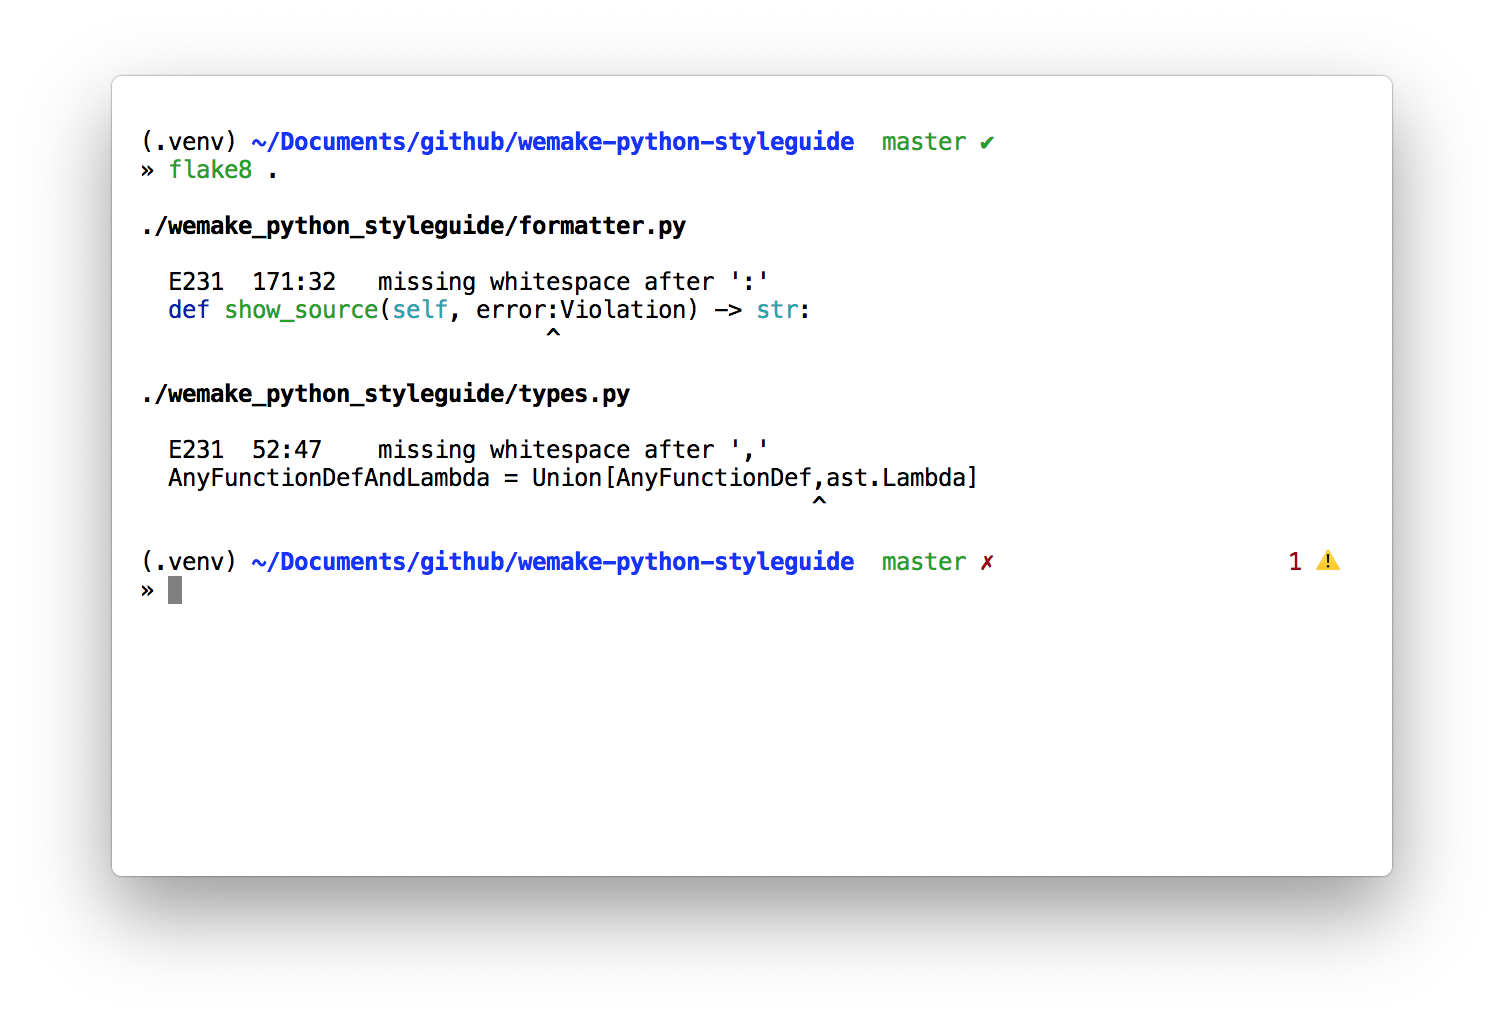
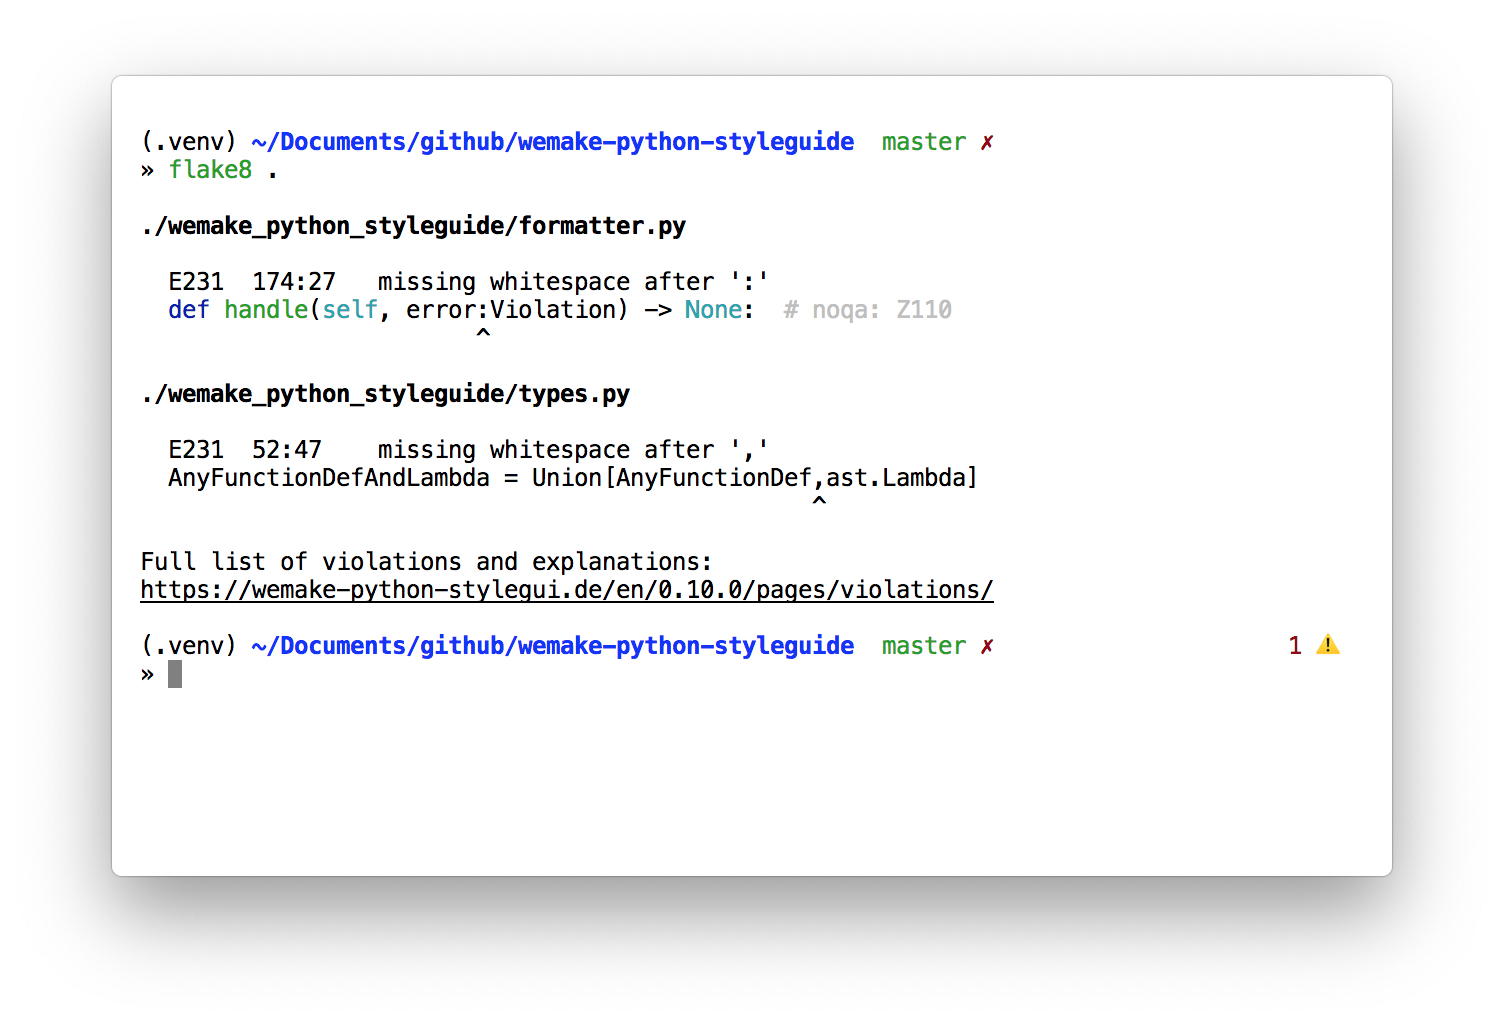
Improves screenshot

diff --git a/tests/test_formatter/snapshots/snap_test_formatter_output.py b/tests/test_formatter/snapshots/snap_test_formatter_output.py
@@ -20,7 +20,8 @@ snapshots['test_formatter[cli_options0-regular] formatter_regular'] = '''
   Z441  2:12     Found protected attribute usage: _protected
   Z303  2:31     Found underscored number: 10_00
 
-Full list of violations and explanations: https://wemake-python-stylegui.de/en/0.10.0/pages/violations/
+Full list of violations and explanations:
+https://wemake-python-stylegui.de/en/0.10.0/pages/violations/
 '''
 
 snapshots['test_formatter[cli_options4-statistic_with_source] formatter_statistic_with_source'] = '''
@@ -85,7 +86,8 @@ snapshots['test_formatter[cli_options4-statistic_with_source] formatter_statisti
 
 \x1b[4m\x1b[1mAll errors: 8\x1b[0m\x1b[0m
 
-Full list of violations and explanations: https://wemake-python-stylegui.de/en/0.10.0/pages/violations/
+Full list of violations and explanations:
+https://wemake-python-stylegui.de/en/0.10.0/pages/violations/
 '''
 
 snapshots['test_formatter[cli_options3-with_source_statistic] formatter_with_source_statistic'] = '''
@@ -150,7 +152,8 @@ snapshots['test_formatter[cli_options3-with_source_statistic] formatter_with_sou
 
 \x1b[4m\x1b[1mAll errors: 8\x1b[0m\x1b[0m
 
-Full list of violations and explanations: https://wemake-python-stylegui.de/en/0.10.0/pages/violations/
+Full list of violations and explanations:
+https://wemake-python-stylegui.de/en/0.10.0/pages/violations/
 '''
 
 snapshots['test_formatter[cli_options2-with_source] formatter_with_source'] = '''
@@ -190,7 +193,8 @@ snapshots['test_formatter[cli_options2-with_source] formatter_with_source'] = ''
   \x1b[34mreturn\x1b[39;49;00m param._protected + \x1b[34m10\x1b[39;49;00m_00
                             ^
 
-Full list of violations and explanations: https://wemake-python-stylegui.de/en/0.10.0/pages/violations/
+Full list of violations and explanations:
+https://wemake-python-stylegui.de/en/0.10.0/pages/violations/
 '''
 
 snapshots['test_formatter[cli_options1-regular_statistic] formatter_regular_statistic'] = '''
@@ -231,7 +235,8 @@ snapshots['test_formatter[cli_options1-regular_statistic] formatter_regular_stat
 
 \x1b[4m\x1b[1mAll errors: 8\x1b[0m\x1b[0m
 
-Full list of violations and explanations: https://wemake-python-stylegui.de/en/0.10.0/pages/violations/
+Full list of violations and explanations:
+https://wemake-python-stylegui.de/en/0.10.0/pages/violations/
 '''
 
 snapshots['test_formatter_correct[cli_options1-regular_statistic] formatter_correct_regular_statistic'] = '''

diff --git a/wemake_python_styleguide/formatter.py b/wemake_python_styleguide/formatter.py
@@ -242,7 +242,7 @@ class WemakeFormatter(BaseFormatter):  # noqa: Z214
     def stop(self) -> None:
         """Runs once per app when the formatting ends."""
         if self._error_count:
-            message = '{0}Full list of violations and explanations: {1}'
+            message = '{0}Full list of violations and explanations:{0}{1}'
             self._write(message.format(self.newline, self._doc_url))
 
     # Our own methods:
